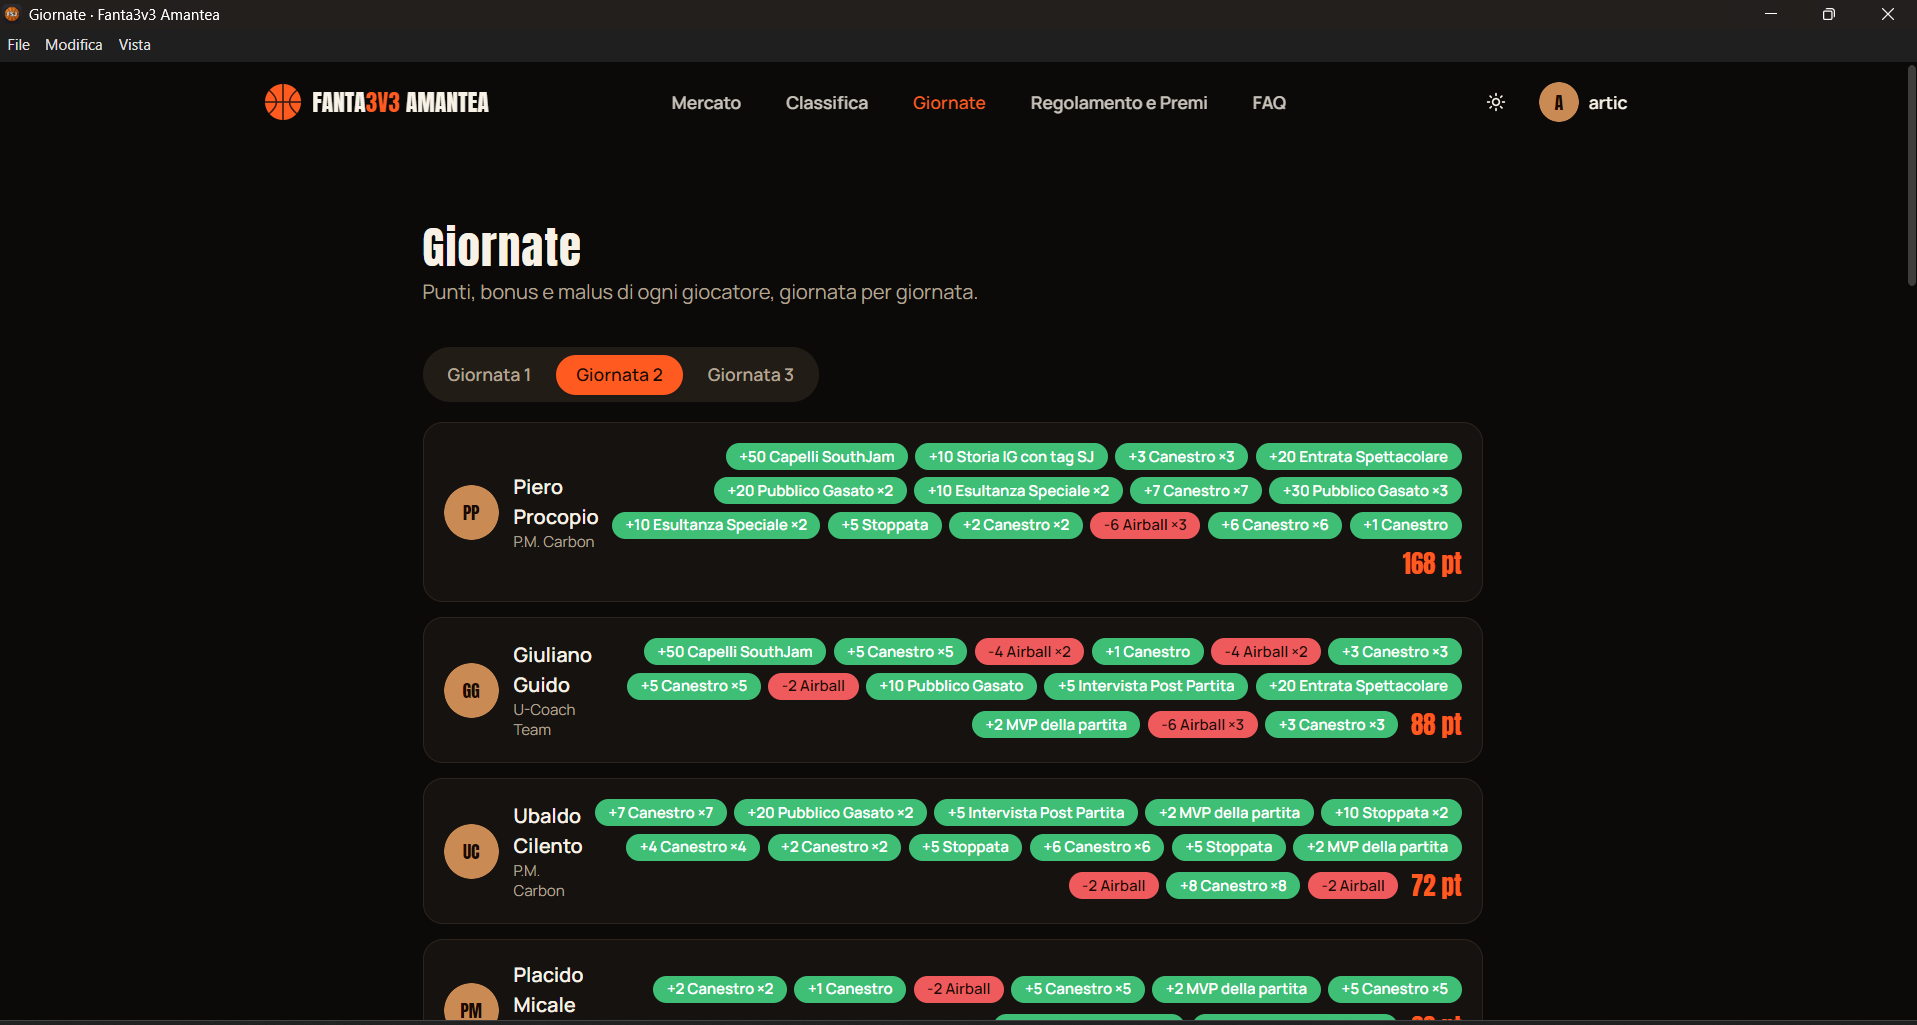
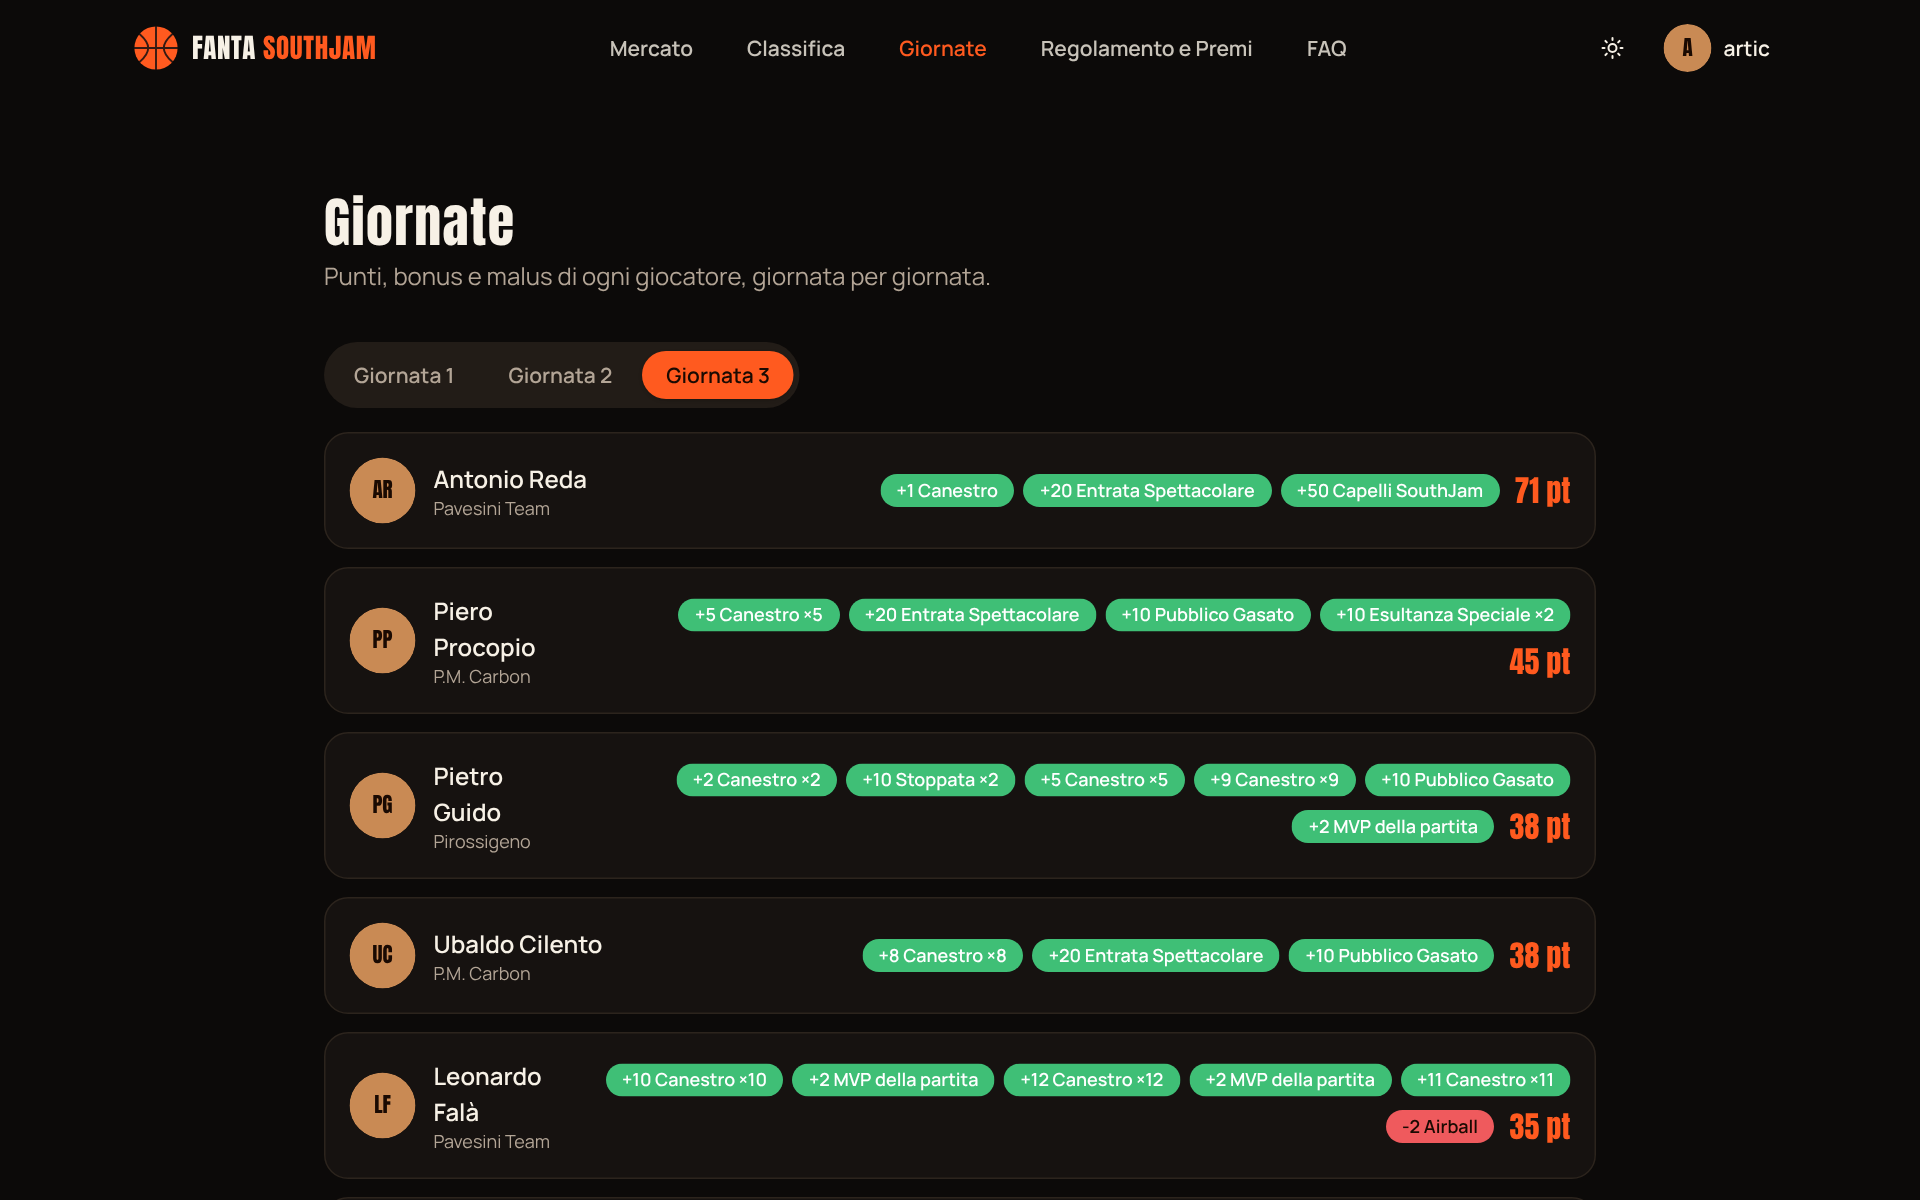
Screenshot del README aggiornati alla nuova grafica, con dati reali
- Sostituiti i 6 screenshot (nuovo nome, classifica a podio, card mercato, ecc.)
- Aggiunto lo screenshot dell'assegnazione di più bonus a un giocatore
- README: nota sui dati, countdown della home, assegnazione bonus multipla

Claude-Session: https://claude.ai/code/session_01BBZkJpDoWMtuCyQvf66RbF

diff --git a/README.md b/README.md
@@ -9,13 +9,13 @@ bonus e malus dopo ogni giornata.
 
 ![Home](docs/screenshots/home.png)
 
-> Le schermate di questa pagina usano un account di prova con dati inventati.
+> Le schermate mostrano i dati reali dell'edizione 2026 (mercato chiuso a fine torneo), viste dal profilo di un amministratore.
 
 ## Funzionalità
 
 ### Per i partecipanti
 - Registrazione, login e recupero password (Supabase Auth), pagina profilo con modifica dati e password.
-- Home con countdown all'inizio del torneo, regolamento e FAQ.
+- Home con countdown alla giornata successiva (o alla prossima edizione a torneo concluso), regolamento, FAQ e pagina crediti.
 
 ### Mercato e squadra
 - **Mercato a crediti** con ricerca, filtri e ordinamento; il budget è verificato lato database.
@@ -40,7 +40,7 @@ bonus e malus dopo ogni giornata.
 ### Pannello admin (`/admin`, solo ruolo `admin`)
 - Gestione giocatori: aggiunta, modifica, costi, rimozione dal mercato (disattivazione *soft*, per non rompere
   lo storico di chi li ha già posseduti).
-- Gestione giornate: stato, recap testuale, assegnazione di bonus e malus per giocatore.
+- Gestione giornate: stato, recap testuale, assegnazione di più bonus e malus a un giocatore in un'unica operazione.
   I bonus si assegnano a giornate "in corso" o "chiuse": l'avvio della giornata congela le formazioni, e una
   giornata con punteggi non può tornare "da giocare".
 - Impostazioni: apertura e chiusura del mercato e delle iscrizioni, budget iniziale, dimensione di rosa e titolari, data di inizio
@@ -49,6 +49,8 @@ bonus e malus dopo ogni giornata.
 - **Audit log** automatico di ogni azione admin, scritto da un trigger del database.
 
 ![Pannello admin](docs/screenshots/admin.png)
+
+![Assegnazione di bonus e malus](docs/screenshots/admin-bonus.png)
 
 ## Scelte tecniche
 
